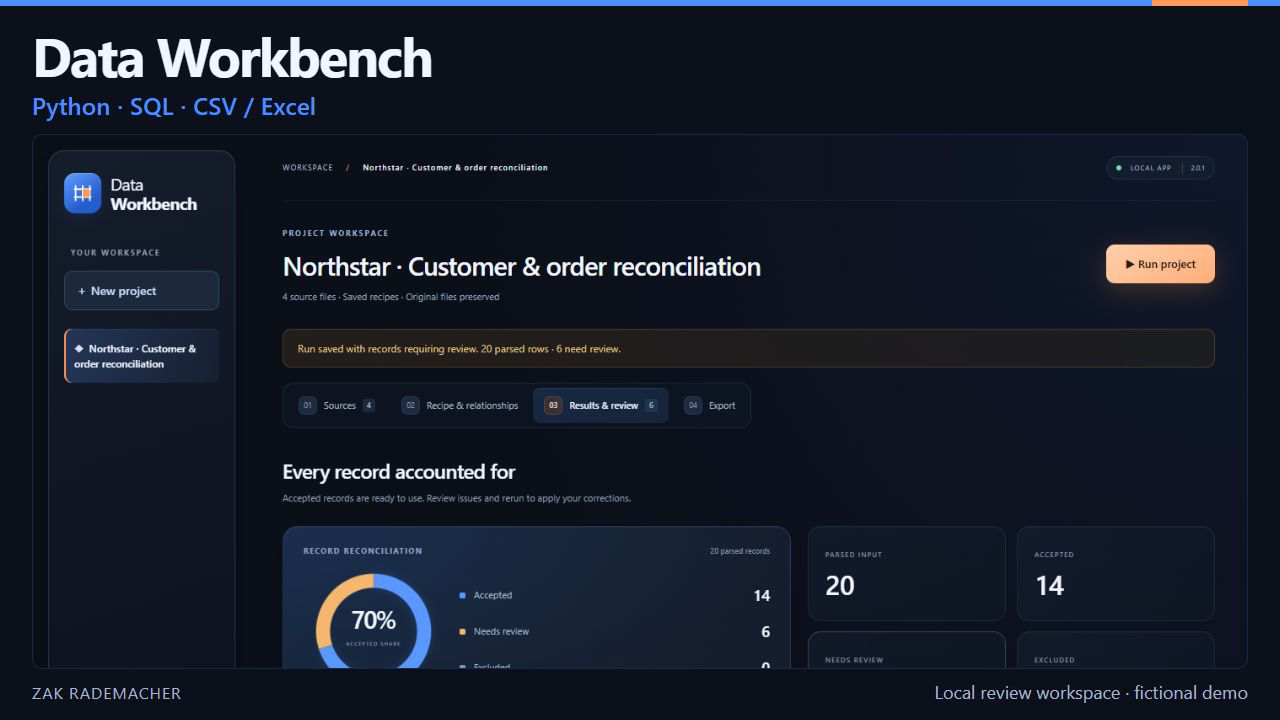
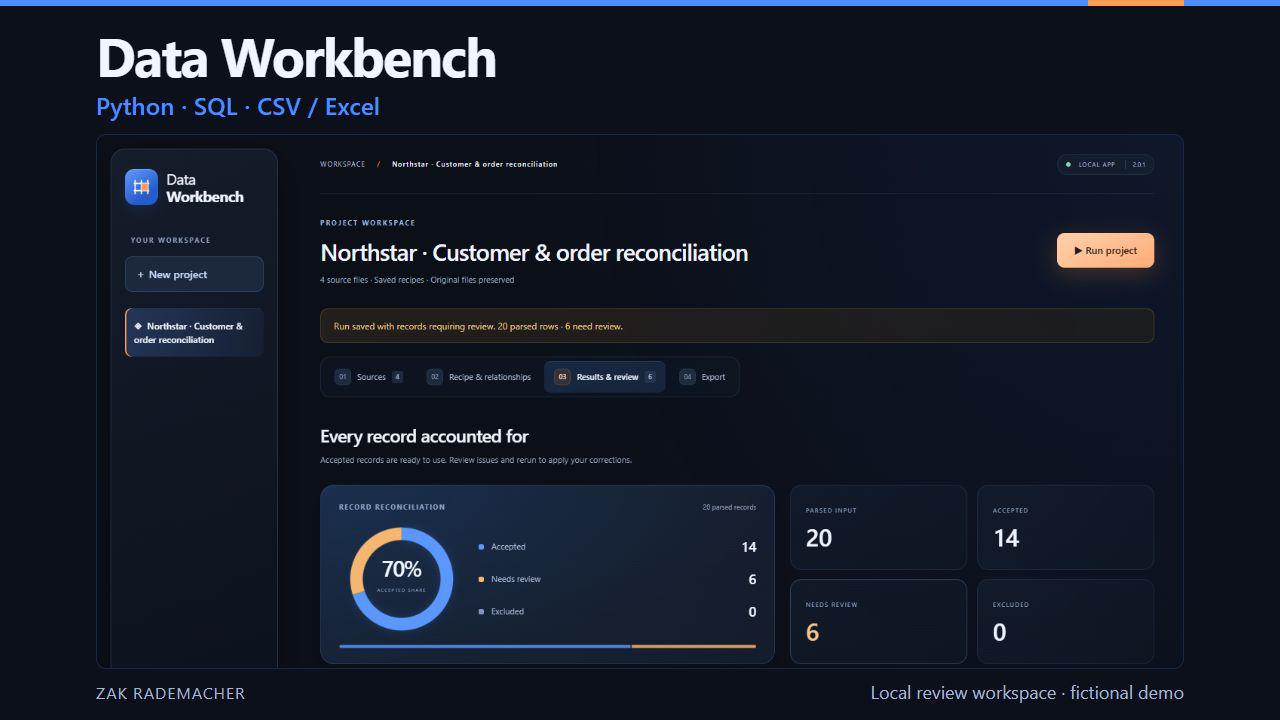
Keep thumbnail text inside safe crop margins

diff --git a/presentation/cover-template.html b/presentation/cover-template.html
@@ -1,3 +1,3 @@
 <!doctype html><html lang="en"><meta charset="utf-8"><meta name="author" content="Zak Rademacher"><title>@@title@@ — portfolio cover</title><style>
-*{box-sizing:border-box}html,body{margin:0;width:100%;height:100%;overflow:hidden}body{font-family:'Segoe UI',Arial,sans-serif;background:@@canvas@@;color:@@ink@@}.stage{height:100%;padding:30px 32px 22px;display:flex;flex-direction:column;gap:18px;border-top:6px solid @@primary@@;position:relative}.stage:before{content:'';position:absolute;top:-6px;right:32px;width:96px;height:6px;background:@@accent@@}header{flex:none;min-height:115px;display:flex;flex-direction:column;justify-content:center;gap:10px}h1{font-size:64px;line-height:1.08;letter-spacing:-1.8px;font-weight:650;margin:0;white-space:nowrap}.tools{font-size:27px;line-height:1.3;letter-spacing:.2px;color:@@primary@@;font-weight:550;margin:0}.preview{flex:1;min-height:0;display:flex;align-items:center;justify-content:center;overflow:hidden;border:1px solid @@primary@@33;border-radius:10px;background:@@canvas@@}.preview img{display:block;width:100%;height:100%;object-fit:contain;object-position:center}.preview.crop-top img{object-fit:cover;object-position:center top}footer{flex:none;display:flex;align-items:center;justify-content:space-between;gap:20px;height:29px;font-size:20px;line-height:1.3;color:@@muted@@}.name{font-size:18px;letter-spacing:1px;white-space:nowrap}.note{text-align:right}@media(max-height:760px){.stage{padding-top:20px;padding-bottom:15px;gap:12px}header{min-height:92px;gap:6px}h1{font-size:54px}.tools{font-size:24px}footer{font-size:18px;height:24px}.name{font-size:16px}}
+*{box-sizing:border-box}html,body{margin:0;width:100%;height:100%;overflow:hidden}body{font-family:'Segoe UI',Arial,sans-serif;background:@@canvas@@;color:@@ink@@}.stage{height:100%;padding:30px 96px 22px;display:flex;flex-direction:column;gap:18px;border-top:6px solid @@primary@@;position:relative}.stage:before{content:'';position:absolute;top:-6px;right:96px;width:96px;height:6px;background:@@accent@@}header{flex:none;min-height:115px;display:flex;flex-direction:column;justify-content:center;gap:10px}h1{font-size:64px;line-height:1.08;letter-spacing:-1.8px;font-weight:650;margin:0;white-space:nowrap}.tools{font-size:27px;line-height:1.3;letter-spacing:.2px;color:@@primary@@;font-weight:550;margin:0}.preview{flex:1;min-height:0;display:flex;align-items:center;justify-content:center;overflow:hidden;border:1px solid @@primary@@33;border-radius:10px;background:@@canvas@@}.preview img{display:block;width:100%;height:100%;object-fit:contain;object-position:center}.preview.crop-top img{object-fit:cover;object-position:center top}footer{flex:none;display:flex;align-items:center;justify-content:space-between;gap:20px;height:29px;font-size:20px;line-height:1.3;color:@@muted@@}.name{font-size:18px;letter-spacing:1px;white-space:nowrap}.note{text-align:right}@media(max-height:760px){.stage{padding-top:20px;padding-bottom:15px;gap:12px}header{min-height:92px;gap:6px}h1{font-size:54px}.tools{font-size:24px}footer{font-size:18px;height:24px}.name{font-size:16px}}
 </style><div class="stage"><header><h1>@@title@@</h1><p class="tools">@@format@@</p></header><main class="preview @@preview_mode@@"><img src="@@image_data@@" alt="@@frame_label@@"></main><footer><span class="name">ZAK RADEMACHER</span><span class="note">@@preview_note@@</span></footer></div></html>
